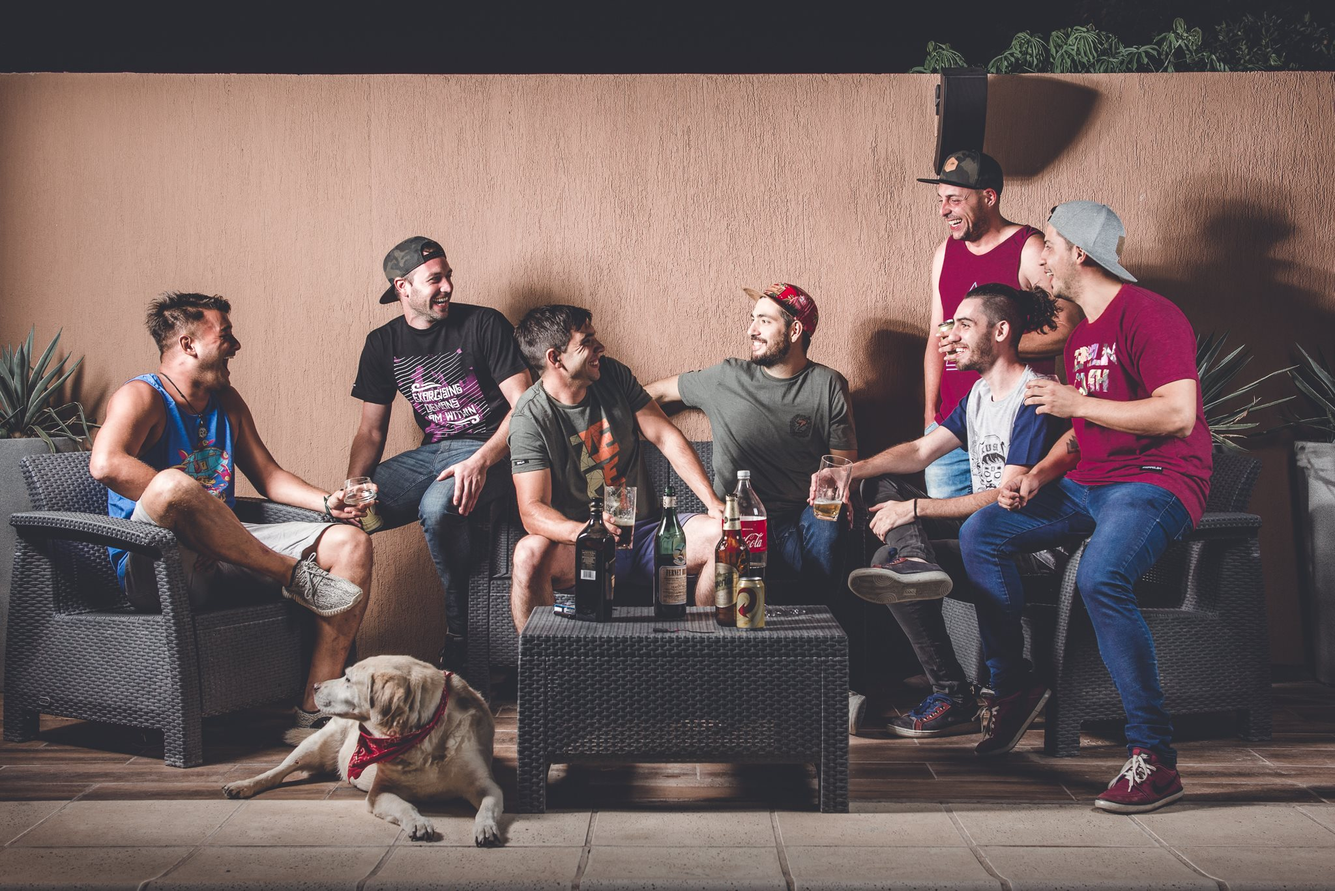
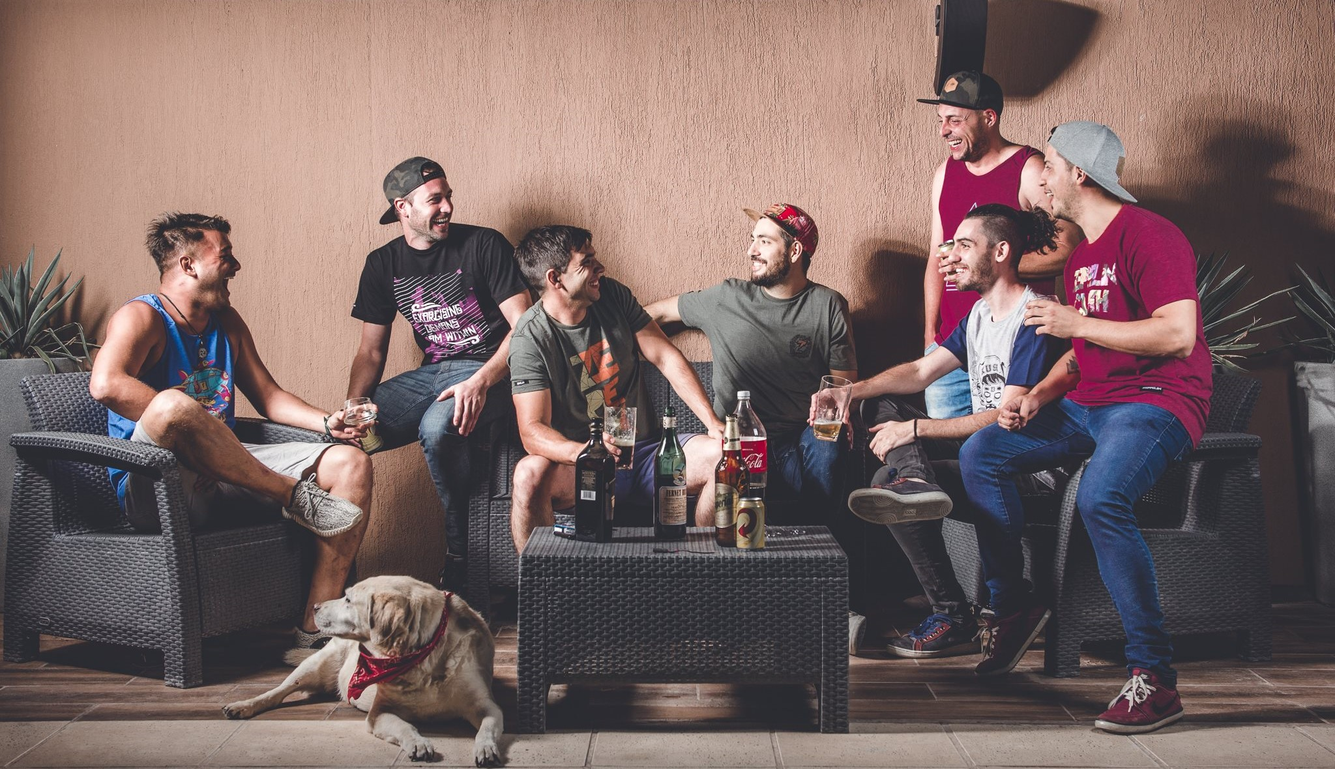
todavia no se rompio tanto

diff --git a/css/style.css b/css/style.css
@@ -94,7 +94,6 @@ nav{
     justify-content: space-around;
 }
 .menu-principal li{
-    display: n;
     align-items: center;
     justify-content: space-around;
 }
@@ -145,6 +144,7 @@ nav{
     width: 100%;
     height: 100%;
     object-fit: cover;
+    object-position: 0px -5em
 }
 .img-titulo{
     width: 80%;
@@ -689,9 +689,11 @@ o como hacer una barra donde haya una lista suponiendo que habria muchas tiendas
         height: 18rem;
         margin:  6rem;
         object-fit: contain;
+        margin: 1rem 0;
     }
     .logo-nav img{
-        width: auto;
+        width: 100%;
+        height: auto;
         padding: 6rem;
         align-items: center;
         justify-content: center;
@@ -727,13 +729,32 @@ o como hacer una barra donde haya una lista suponiendo que habria muchas tiendas
         height: 5rem;
         padding: 0rem 2rem;
     }
-    
-    .logo-nav{
-        margin: 1rem 0; /* Espaciado para el logo */
+    .carrusel{
+        height: 28rem;
+    }
+    .carrusel img{
+        object-position: 0px -2em
+    }
+    .img-titulo ul{
+        display: flex;
+        flex-direction: column;
+        align-items: center;
+        justify-content: center;
+    }
+    .linea-izq, .linea-der{
+        border-top: 5px solid #8F00FF;
     }
     
-    .logo-nav img{
-        width: 100%; /* Logo ocupa todo el ancho disponible */
-        height: auto; /* Ajusta la altura automáticamente */
+    .titulo-seccion h1{
+        font-size: 3rem;
     }
+
+
+
+
+
+
+
+
+
 }
